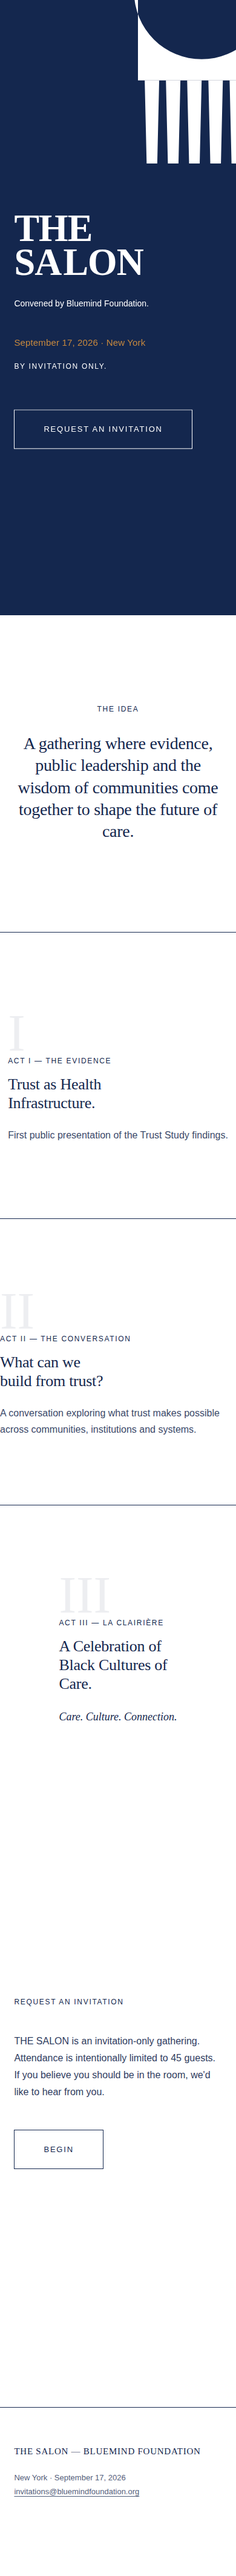
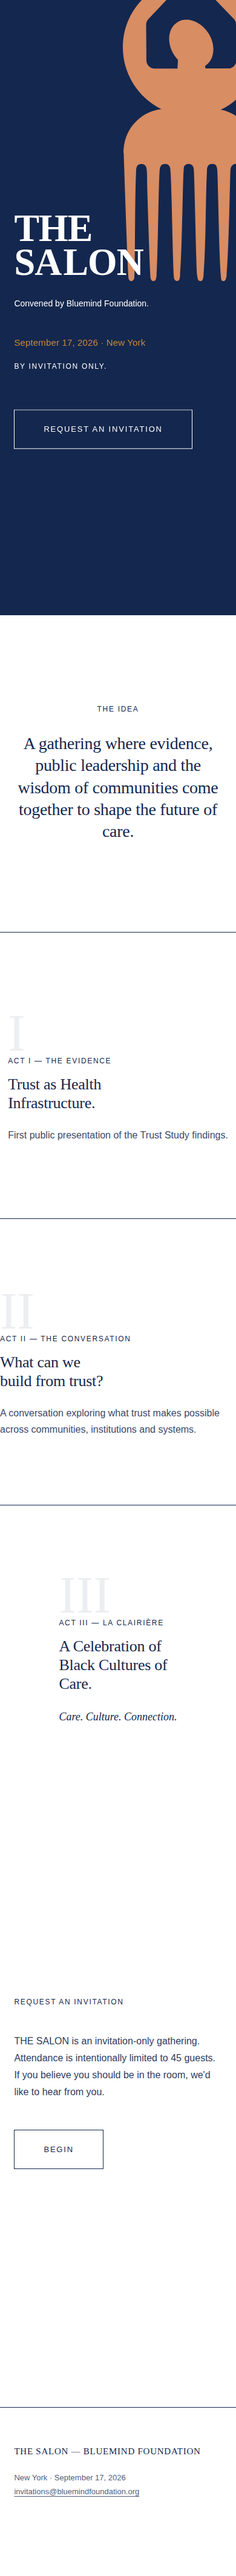
Integrate the real master visual comb artwork into the hero
Replace the original placeholder comb silhouette (rectangle minus a
circle, plus tapered teeth) with Landry's final master visual — a
figure-with-raised-arms afro-pick illustration, supplied as SVG and
inlined verbatim (three paths, exact source coordinates). Its fill
color (#d88d63, a warm terracotta) is preserved exactly as delivered
rather than recolored to currentColor/white, since it reads as a
deliberate designer choice.

Sized via aspect-ratio (matching the artwork's own 275.75:607.54
proportions) plus a width, instead of an independent width+height box,
so the real artwork is never stretched or arbitrarily cropped inside
the SVG — bleed comes entirely from positioning the box partly off
the hero's edges. Separate tuned position/size for mobile vs. the
≥900px desktop breakpoint.

This comb is still scoped to the landing page only; the shared
design-system/comb-placeholder.svg (used by the poster, carousel,
invitations, social-toolkit, event-experience and press-kit) is
unchanged until those workstreams receive the same final artwork.

Changed region(s): [[0.5231, 0.0, 1.0, 0.1241]]

diff --git a/landing-page/index.html b/landing-page/index.html
@@ -24,24 +24,18 @@
 <main id="main">
 
   <!-- ============================= HERO ============================= -->
-  <!-- Monumental comb crop: an original silhouette (rectangle minus a large
-       circle, plus tapered teeth) — a graphic/architectural element, not a
-       logo. Content deliberately minimal: no tagline, no UNGA framing. -->
+  <!-- Master visual comb artwork (final, supplied by Landry) — a
+       graphic/architectural element bled large across the hero, not a
+       logo. Content deliberately minimal: no tagline, no UNGA framing.
+       Colour (#d88d63) is exactly as delivered in the source file, not
+       recoloured to currentColor — see README "The master visual comb". -->
   <section class="hero hero-v2" id="top">
     <div class="hero-v2-comb-wrap" aria-hidden="true">
-      <svg class="hero-v2-comb" viewBox="0 0 1440 900" preserveAspectRatio="xMaxYMin slice">
-        <g fill="currentColor">
-          <path fill-rule="evenodd" d="
-            M 760,-200 L 1500,-200 L 1500,470 L 760,470 Z
-            M 1090,10 m -350,0 a 350,350 0 1,0 700,0 a 350,350 0 1,0 -700,0
-          "/>
-          <path d="
-            M795,470 L805,900 L860,900 L870,470 Z
-            M905,470 L915,900 L970,900 L980,470 Z
-            M1015,470 L1025,900 L1080,900 L1090,470 Z
-            M1125,470 L1135,900 L1190,900 L1200,470 Z
-            M1235,470 L1245,900 L1300,900 L1310,470 Z
-          "/>
+      <svg class="hero-v2-comb" viewBox="0 0 275.75048 607.53936" preserveAspectRatio="xMidYMin meet">
+        <g transform="translate(-172.59999,-96.629739)">
+          <path d="m 0,0 -181.692,0.831 c 2.68,-80.882 6.713,-193.855 7.905,-196.636 2.234,-5.217 7.778,-3.06 8.433,2.532 1.414,12.053 0.5,119.237 2.578,159.187 0.271,5.21 -0.091,11.654 6.752,12.11 6.588,0.439 8.828,-3.266 9.371,-9.057 0.784,-8.366 0.415,-17.648 0.683,-26.074 1.289,-40.555 4.216,-133.743 5.297,-137.88 0.784,-3.007 2.92,-4.626 6.144,-3.119 2.037,0.951 2.541,6.365 2.719,8.569 1.964,24.44 2.821,131.156 4.497,156.053 0.254,3.779 0.652,9.858 5.153,11.197 5.535,1.646 10.162,-0.721 10.948,-6.305 2.461,-17.484 3.93,-160.791 6.16,-166.884 1.276,-3.488 6.086,-4.36 7.618,-1.071 0.486,1.042 0.997,4.998 1.111,6.389 3.479,42.15 4.059,154.187 5.85,163.451 1.201,6.204 12.394,6.942 14.363,-0.39 0.886,-3.298 0.975,-12.327 1.113,-16.333 1.31,-37.788 3.203,-136.054 4.5,-146.726 0.261,-2.14 0.693,-7 2.715,-7.947 6.434,-3.012 6.675,4.973 6.981,9.154 3.892,53.088 2.653,106.518 5.206,159.721 0.749,6.085 4.289,8.194 10.541,7.179 3.739,-0.605 4.622,-5.266 4.895,-8.331 1.416,-15.902 3.208,-165.355 6.863,-167.599 5.649,-3.468 6.985,4.165 7.299,7.823 3.874,45.092 5.08,153.878 5.889,160.306 1.323,10.507 14.504,10.986 15.438,1.336 0.916,-9.452 -0.348,-117.107 2.563,-159.78 0.136,-2 0.815,-8.367 2.095,-9.474 4.651,-4.023 7.148,5.187 7.572,8.229 1.735,12.465 6.861,116.972 9.616,190.37 C 17.176,0.831 0.01,0.282 0,0" style="fill:#d88d63;fill-opacity:1;fill-rule:nonzero;stroke:none" transform="matrix(1.3333333,0,0,-1.3333333,416.32267,439.02147)"/>
+          <path d="M 0,0 C -1.927,0.236 -3.085,-2.085 -1.732,-3.488 L 52.286,-59.58 c 2.225,-2.303 3.464,-5.373 3.485,-8.56 l 0.354,-53.851 c 0.045,-6.843 -5.445,-12.394 -12.269,-12.408 l -34.566,-0.073 -0.254,4.021 c 0.159,0.103 0.329,0.195 0.499,0.309 14.112,9.352 15.915,31.495 4.028,49.473 -11.887,17.979 -32.976,24.972 -47.087,15.621 -14.112,-9.351 -15.915,-31.506 -4.028,-49.473 1.646,-2.498 3.483,-4.768 5.434,-6.82 l -0.677,-13.218 -34.566,-0.073 c -6.824,-0.014 -12.397,5.515 -12.442,12.358 l -0.354,53.85 c -0.02,3.187 1.19,6.263 3.385,8.575 l 53.269,56.315 c 1.335,1.409 0.157,3.725 -1.766,3.481 -51.443,-6.39 -90.971,-50.716 -90.085,-104.166 0.955,-56.957 48.254,-103.032 105.054,-102.377 56.654,0.644 102.115,46.947 101.742,103.882 C 91.094,-49.743 51.183,-6.142 0,0" style="fill:#d88d63;fill-opacity:1;fill-rule:nonzero;stroke:none" transform="matrix(1.3333333,0,0,-1.3333333,326.4248,96.652)"/>
+          <path d="m 0,0 h -198.867 v 1.686 c 0,35.728 28.962,64.691 64.69,64.691 H -64.69 C -28.963,66.377 0,37.414 0,1.686 Z" style="fill:#d88d63;fill-opacity:1;fill-rule:nonzero;stroke:none" transform="matrix(1.3333333,0,0,-1.3333333,439.22387,445.75067)"/>
         </g>
       </svg>
     </div>

diff --git a/landing-page/styles.css b/landing-page/styles.css
@@ -149,7 +149,7 @@ section {
 }
 
 /* ---- HERO v2 ----
-   Full-bleed Bluemind Blue, a monumental cropped comb bleeding off the
+   Full-bleed Bluemind Blue, the master visual comb artwork bled large off the
    top-right, and exactly four lines: THE SALON, Convened by Bluemind
    Foundation, the date (ochre), By invitation only. No tagline, no UNGA
    framing, no photography. */
@@ -165,13 +165,17 @@ section {
   align-items: flex-end;
 }
 
+/* Sized with aspect-ratio (matching the artwork's own 275.75:607.54
+   proportions) rather than an independent width+height box — the real
+   artwork should never be stretched or arbitrarily cropped internally.
+   Bleed is achieved by positioning the box partly off the hero's edges,
+   not by cropping inside the SVG. */
 .hero-v2-comb-wrap {
   position: absolute;
-  top: -2vh;
-  right: -14vw;
-  width: 82vw;
-  height: 34vh;
-  color: var(--color-white);
+  top: -4vh;
+  right: -10vw;
+  width: 58vw;
+  aspect-ratio: 275.75048 / 607.53936;
   pointer-events: none;
 }
 
@@ -714,14 +718,12 @@ footer {
     align-items: center;
   }
 
-  /* Full-hero coverage so the SVG's own preserveAspectRatio="slice" does
-     the cropping — a separately-sized box here previously caused a
-     mismatched aspect ratio that over-cropped and pushed the arch too
-     far right, closing the gap to "SALON" more than intended. */
   .hero-v2-comb-wrap {
-    inset: 0;
-    width: auto;
-    height: auto;
+    top: -5vh;
+    right: -4vw;
+    width: 30vw;
+    bottom: auto;
+    left: auto;
   }
 
   .hero-v2-content {
@@ -732,7 +734,7 @@ footer {
   }
 
   .hero-v2-title {
-    padding-right: 0.12em; /* air between the final "N" and the comb's hollow */
+    padding-right: 0.12em; /* air between the final "N" and the comb artwork */
   }
 
   .idea {

diff --git a/landing-page/README.md b/landing-page/README.md
@@ -63,27 +63,42 @@ short enough to just be scrolled. The only persistent UI element is
   (thumb-reach, since most visitors will open this from a phone), which
   becomes a small discreet pill in the top-right corner at `≥900px`.
 
-## Hero — monumental comb
+## Hero — the master visual comb
 
-The comb is an original silhouette (not traced from any reference image):
-a rectangle with a large circle subtracted from its corner (creating the
-concave "hollow"), plus straight tapered teeth below — built as one
-`<svg viewBox="0 0 1440 900" preserveAspectRatio="xMaxYMin slice">`. On
-desktop it covers the entire hero (`.hero-v2-comb-wrap { inset: 0 }` at
-`≥900px`) so the circle always stays circular regardless of viewport
-aspect ratio, cropped/anchored to the top-right. On mobile it's a smaller,
-separately-positioned corner accent (`top/right/width/height`, not
-`inset: 0`) so the composition doesn't try to force the same wide-aspect
-crop into a narrow portrait screen.
+The comb is Landry's **final master visual artwork** — a figure-with-
+raised-arms silhouette transitioning into an afro-pick spine and teeth —
+supplied as a real SVG and inlined verbatim in `index.html` (three
+`<path>` elements, exact coordinates from the source file, wrapped in the
+same `translate(-172.59999,-96.629739)` group the file shipped with). It
+replaced an earlier original placeholder shape (a rectangle with a circle
+subtracted from its corner) that was used before this artwork arrived —
+if you see any reference to a "hollow" or "rectangle minus a circle" left
+over anywhere, it's stale from that earlier pass.
 
-**Do not give `.hero-v2-comb-wrap` both an `inset` and an explicit
-`width`/`height` in the same rule** — `inset` sets all four offsets, which
-over-constrains the box and silently breaks the intended crop (this
-happened once already during review; the fix is documented inline in
-`styles.css`).
+**Its fill, `#d88d63` (a warm terracotta), is preserved exactly as
+delivered in the source file — not recoloured to `currentColor` or
+white.** This was a deliberate choice: the file's `style="fill:#d88d63"`
+on every path reads as an intentional designer decision, not a
+placeholder color, so it wasn't overridden. If Bluemind wants it in a
+different color, change the three `fill:#d88d63` occurrences in
+`index.html`.
 
-There is deliberately **no interior cutout/logo shape** in the comb's
-handle — a flat, solid mass with just the one hollow.
+**Sizing**: `.hero-v2-comb-wrap` uses `aspect-ratio: 275.75048 /
+607.53936` (the artwork's own proportions from its `viewBox`) plus a
+`width`, rather than an independent `width` + `height` box — this
+guarantees the real artwork is never stretched or arbitrarily cropped
+internally (the SVG itself uses `preserveAspectRatio="xMidYMin meet"`, so
+it always renders whole and undistorted inside its box). All the "bleed
+off the edge" effect comes from *positioning* that box partly outside the
+hero via negative `top`/`right`, not from cropping inside the SVG —
+different `top`/`right`/`width` values for mobile (base rules) vs.
+`≥900px` (desktop override).
+
+**Do not give `.hero-v2-comb-wrap` both `inset` and an explicit
+`width`/`height` in the same rule** if you touch this again — `inset` sets
+all four offsets at once and can silently override a `top`/`right` you
+meant to keep (this happened once during an earlier pass, when the
+wrapper still held the placeholder shape).
 
 ### Typographic details
 
@@ -92,19 +107,19 @@ handle — a flat, solid mass with just the one hollow.
 - **O+N ligature** (off by default): add `class="join-on"` to the "O" span
   to pull the "N" toward it (`.join-on + .ls { margin-left: -0.06em; }`) —
   a subtle touch between the O's bowl and the N's stem, not an overlap.
-- **Vertical micro-position**: add `transform: translateY(±28px)` to
-  `.hero-v2-content` to test the hero shifted up/down against the comb's
-  hollow, if the current (flex, bottom-anchored on mobile / centered on
-  desktop) position isn't preferred.
+- **Vertical micro-position**: `.hero-v2-content` already carries
+  `transform: translateY(-6vh)` (raises the whole block slightly, per
+  review) — adjust that value directly if it needs further tuning against
+  the comb artwork's position.
 
 ### Ochre — a new, deliberate accent
 
 `--color-ochre: #c6883e`, defined locally in this file's `:root` (not in
 the shared `design-system/tokens.css`), used only for the event date. This
-is **not a placeholder** like the blue hex/font/comb are — it's an
-explicit art-direction decision. It's scoped to this page only for now;
-promote it into the shared tokens if/when this direction rolls out to the
-rest of the system.
+is **not a placeholder** like the blue hex/font still are (the comb
+artwork is now final, per above) — it's an explicit art-direction
+decision. It's scoped to this page only for now; promote it into the
+shared tokens if/when this direction rolls out to the rest of the system.
 
 ## Request an Invitation — 5-step guided flow
 
@@ -164,10 +179,9 @@ except ochre (see above):
   stand in for Bluemind's real typeface. A separate `@import` in this
   file adds Fraunces weight 700 (for the monumental hero wordmark), since
   `tokens.css` only imports up to 600.
-- **The comb graphic** — an original placeholder silhouette, explicitly
-  not the real "Heal by Hair" artwork/master visual. Swap the SVG path
-  data once the final version is delivered; every place it's used in this
-  file references the same shape, so it's a single find-and-replace.
+- **The comb graphic** — final, not a placeholder. Landry's master visual
+  artwork (see "Hero — the master visual comb" above), fill color
+  preserved exactly as delivered.
 - **No gradients, shadows, or glossy effects, and no gimmick
   animation/effects** anywhere — only quiet fades/rises (`hero-in`,
   `data-reveal`) and simple opacity/transform transitions, all disabled
@@ -185,12 +199,16 @@ landing-page/
 ```
 
 `index.html` links `../design-system/tokens.css` directly, treated as a
-read-only input and never edited here. The comb SVG is inlined directly in
-`index.html` rather than referenced via `<img src="…design-system/comb-
-placeholder.svg">` — an `<img>` reference to an external SVG cannot
-inherit `currentColor` from the host page and would silently render black
-instead of Bluemind Blue (this bug existed in an earlier pass and was
-fixed by inlining).
+read-only input and never edited here. The comb SVG is inlined directly
+in `index.html` with its own fixed `#d88d63` fill — this page no longer
+references the shared `design-system/comb-placeholder.svg` at all (that
+placeholder is still used by the other four workstreams — poster,
+carousel, invitations, social-toolkit, event-experience/press-kit — which
+haven't received the final master visual yet). An earlier pass on this
+page did load the comb via `<img src="…design-system/comb-placeholder.svg">`,
+which silently rendered black instead of Bluemind Blue because an `<img>`
+reference to an external SVG can't inherit `currentColor` — fixed at the
+time by inlining, and inlining remains how the comb is included today.
 
 ## Previewing
 
